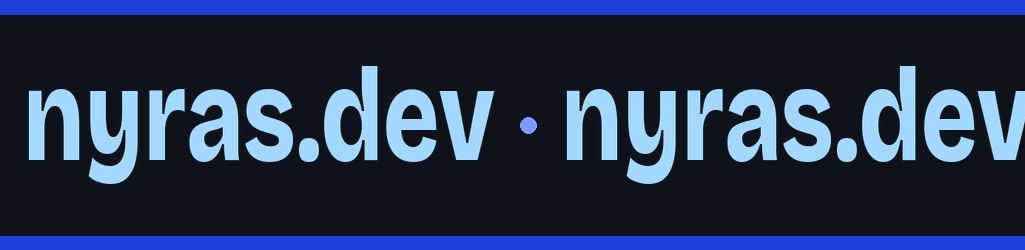
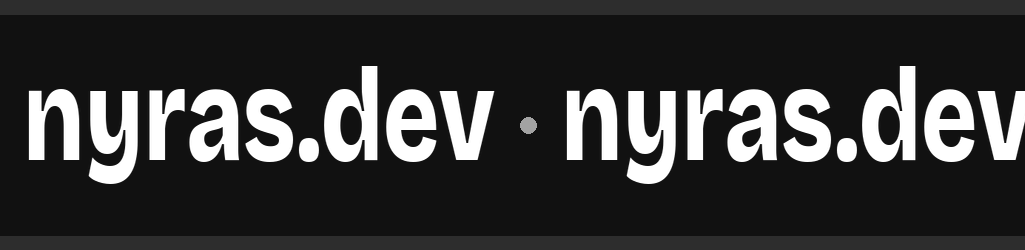
Switch to a grey/black/white palette (site, badge, stack tiles); monochrome gallery

Changed region(s): [[0.0312, 0.252, 1.0, 0.756], [0.0, 0.924, 1.0, 1.0], [0.0, 0.0, 1.0, 0.084]]

diff --git a/src/App.jsx b/src/App.jsx
@@ -77,9 +77,9 @@ export default function App() {
     <>
       <header className="hero">
         <div className="hero-ascii" aria-hidden="true">
-          <GradientASCII colors={['#1e3fd8', '#f6f8ff', '#a5d8ff', '#38bdf8']} shape="horizon" characters=" =+xX0S8#@" cellSize={18} density={0.8} />
+          <GradientASCII colors={['#1f1f1f', '#f5f5f5', '#a3a3a3', '#525252']} shape="horizon" characters=" =+xX0S8#@" cellSize={18} density={0.8} />
         </div>
-        <SwarmCursor count={800} size={2.6} spread={90} swirl={0.6} clickEffect="burst" color="#a5d8ff" accentColor="#7d9bff">
+        <SwarmCursor count={800} size={2.6} spread={90} swirl={0.6} clickEffect="burst" color="#e5e5e5" accentColor="#8a8a8a">
           <div className="hero-grid">
             <div className="hero-top">
               <p className="record">
@@ -109,7 +109,7 @@ export default function App() {
           </div>
         </SwarmCursor>
         <div className="hero-badge">
-          <Lanyard frontImage="/lanyard/card-front.png" backImage="/lanyard/card-back.png" strapImage="/lanyard/band.png" strapColor="#0e121a" metal="silver" />
+          <Lanyard frontImage="/lanyard/card-front.png" backImage="/lanyard/card-back.png" strapImage="/lanyard/band.png" strapColor="#111111" metal="silver" />
         </div>
       </header>
 
@@ -117,7 +117,7 @@ export default function App() {
         <Section id="work" path="work">
           <article className="feature">
             <div className="feature-img">
-              <HalftoneReveal src="/gallery/robot-front.webp" mode="mono" shape="dot" cellSize={6} angle={45} inkColor="#e6eaf0" paperColor="#0b0d12" revealRadius={160} />
+              <HalftoneReveal src="/gallery/robot-front.webp" mode="mono" shape="dot" cellSize={6} angle={45} inkColor="#f2f2f2" paperColor="#0a0a0a" revealRadius={160} />
               <span className="hint">hover to develop</span>
             </div>
             <div className="feature-text">
@@ -174,7 +174,7 @@ export default function App() {
           <h2 id="stack-h" className="path"><span>~/</span>stack</h2>
           <p>Languages, hardware and the tools I ship with.</p>
         </div>
-        <DriftWall items={TOOLS} columns={5} tileWidth={200} tileHeight={132} gap={18} tilt={16} turn={-14} perspective={1200} depth={120} speed={42} direction="up" variance={0.45} parallax={0.6} lift={64} fade={0.6} dim={0.55} overlayColor="#0b0d12" />
+        <DriftWall items={TOOLS} columns={5} tileWidth={200} tileHeight={132} gap={18} tilt={16} turn={-14} perspective={1200} depth={120} speed={42} direction="up" variance={0.45} parallax={0.6} lift={64} fade={0.6} dim={0.55} overlayColor="#0a0a0a" />
       </section>
 
       <main>
@@ -186,7 +186,7 @@ export default function App() {
       </main>
 
       <nav className="dock-wrap" aria-label="Links">
-        <Dock items={dockItems} theme="dark" accentColor="#7d9bff" baseItemSize={46} magnification={64} panelHeight={64} showBadges={false} />
+        <Dock items={dockItems} theme="dark" accentColor="#d4d4d4" baseItemSize={46} magnification={64} panelHeight={64} showBadges={false} />
       </nav>
     </>
   );

diff --git a/src/index.css b/src/index.css
@@ -3,15 +3,15 @@
 /* Layout: full-bleed hero with a giant condensed wordmark sitting on an ASCII horizon;
    below, a wide two-column grid where each section is labelled like a shell path (~/work). */
 :root {
-  --bg: #0b0d12;
-  --surface: #12161d;
-  --fg: #e6eaf0;
-  --muted: #8a94a3;
-  --line: #232a35;
-  --accent: #7d9bff;
-  --ice: #a5d8ff;
-  --accent-soft: #1a2440;
-  --ok: #5ccb8f;
+  --bg: #0a0a0a;
+  --surface: #141414;
+  --fg: #f2f2f2;
+  --muted: #8c8c8c;
+  --line: #262626;
+  --accent: #a3a3a3;
+  --ice: #ffffff;
+  --accent-soft: #1c1c1c;
+  --ok: #d4d4d4;
   --display: 'Bricolage Grotesque', ui-sans-serif, system-ui, sans-serif;
   --body: 'IBM Plex Sans', ui-sans-serif, system-ui, sans-serif;
   --mono: 'IBM Plex Mono', ui-monospace, SFMono-Regular, Menlo, monospace;
@@ -35,7 +35,7 @@ p { margin: 0; }
 .hero { position: relative; min-height: min(92vh, 860px); overflow: hidden; border-bottom: 1px solid var(--line); }
 .hero-ascii { position: absolute; inset: 0; }
 .hero-ascii::after { content: ''; position: absolute; inset: 0; pointer-events: none;
-  background: linear-gradient(180deg, var(--bg) 0%, rgba(11,13,18,.2) 35%, rgba(11,13,18,.35) 70%, var(--bg) 100%); }
+  background: linear-gradient(180deg, var(--bg) 0%, rgba(10,10,10,.2) 35%, rgba(10,10,10,.35) 70%, var(--bg) 100%); }
 .hero .swarm-cursor { position: absolute; inset: 0; }
 .hero-grid { height: 100%; display: flex; flex-direction: column; justify-content: space-between;
   padding-block: 1.5rem 0; padding-left: var(--gutter-l); padding-right: var(--gutter-r); }
@@ -124,3 +124,7 @@ footer { font-family: var(--mono); font-size: 0.78rem; color: var(--muted); disp
 
 @media (prefers-reduced-motion: no-preference) { .live::before { animation: blink 2s ease-in-out infinite; } }
 @keyframes blink { 50% { opacity: 0.35; } }
+
+/* photos stay monochrome until you hover them */
+.gallery img { filter: grayscale(1) contrast(1.05); transition: filter .4s ease; }
+.gallery img:hover { filter: none; }
